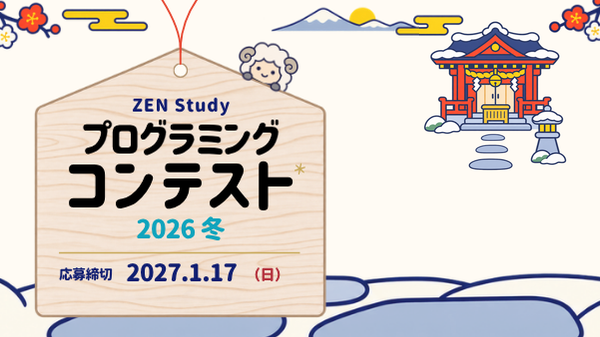
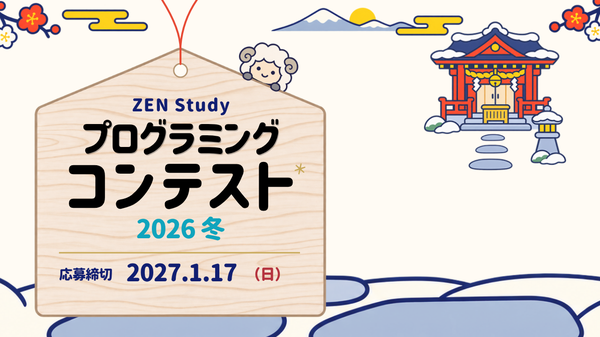
冬のバナーとOGPをCanva保存版の書き出しに更新

diff --git a/preview/c86172040f685620b88e497cb9ab9884/index.html b/preview/c86172040f685620b88e497cb9ab9884/index.html
@@ -30,7 +30,7 @@
   <meta property="og:title" content="ZEN Study プログラミングコンテスト2026冬">
   <meta property="og:description" content="Webページ・Unity・Scratchの3部門で作品を募集します。応募締切は2027年1月17日（日）です。">
   <meta property="og:url" content="https://progedu.github.io/webappcontest/preview/c86172040f685620b88e497cb9ab9884/">
-  <meta property="og:image" content="https://progedu.github.io/webappcontest/preview/c86172040f685620b88e497cb9ab9884/assets/img/2026winter-ogp.png?v=20261125-ema2">
+  <meta property="og:image" content="https://progedu.github.io/webappcontest/preview/c86172040f685620b88e497cb9ab9884/assets/img/2026winter-ogp.png?v=canva-20261125">
   <meta property="og:image:type" content="image/png">
   <meta property="og:image:width" content="1280">
   <meta property="og:image:height" content="720">
@@ -39,7 +39,7 @@
   <meta property="og:site_name" content="ZEN Study プログラミングコンテスト2026冬">
   <meta property="og:locale" content="ja_JP">
   <meta name="twitter:card" content="summary_large_image">
-  <link rel="image_src" href="assets/img/2026winter-ogp.png?v=20261125-ema2">
+  <link rel="image_src" href="assets/img/2026winter-ogp.png?v=canva-20261125">
 </head>
 
 <body id="page-top">
@@ -75,8 +75,8 @@
     <h1 class="sr-only">ZEN Study プログラミングコンテスト2026冬</h1>
     <div class="header hero-visual">
       <picture>
-        <source type="image/webp" srcset="assets/img/2026winter_banner-600.webp?v=20261125-ema2 600w, assets/img/2026winter_banner.webp?v=20261125-ema2 1280w" sizes="100vw">
-        <img src="assets/img/2026winter_banner.png?v=20261125-ema2" srcset="assets/img/2026winter_banner-600.png?v=20261125-ema2 600w, assets/img/2026winter_banner.png?v=20261125-ema2 1280w" sizes="100vw" alt="ZEN Study プログラミングコンテスト2026冬。応募締切は2027年1月17日（日）" width="1280" height="720" fetchpriority="high">
+        <source type="image/webp" srcset="assets/img/2026winter_banner-600.webp?v=canva-20261125 600w, assets/img/2026winter_banner.webp?v=canva-20261125 1280w" sizes="100vw">
+        <img src="assets/img/2026winter_banner.png?v=canva-20261125" srcset="assets/img/2026winter_banner-600.png?v=canva-20261125 600w, assets/img/2026winter_banner.png?v=canva-20261125 1280w" sizes="100vw" alt="ZEN Study プログラミングコンテスト2026冬。応募締切は2027年1月17日（日）" width="1280" height="720" fetchpriority="high">
       </picture>
       <button class="hero-fortune" type="button" aria-label="アスタリスくんのおみくじを引く" disabled>
         <img src="assets/img/omikuji/ready.png" width="2048" height="1843" alt="">
